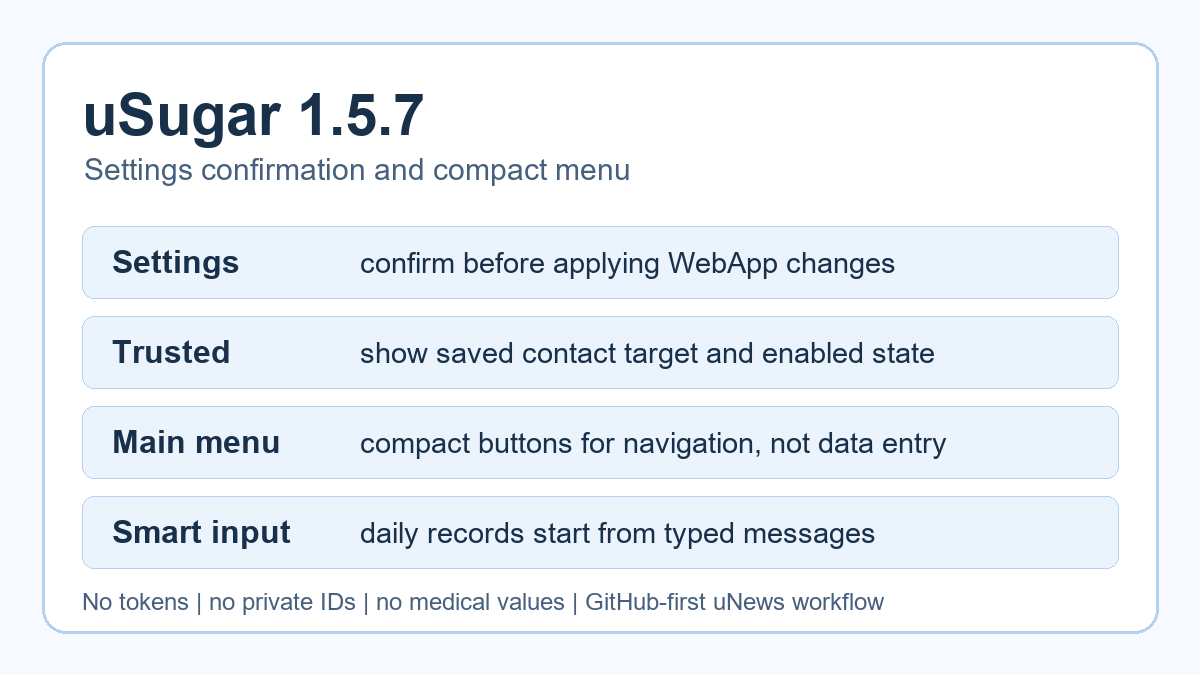
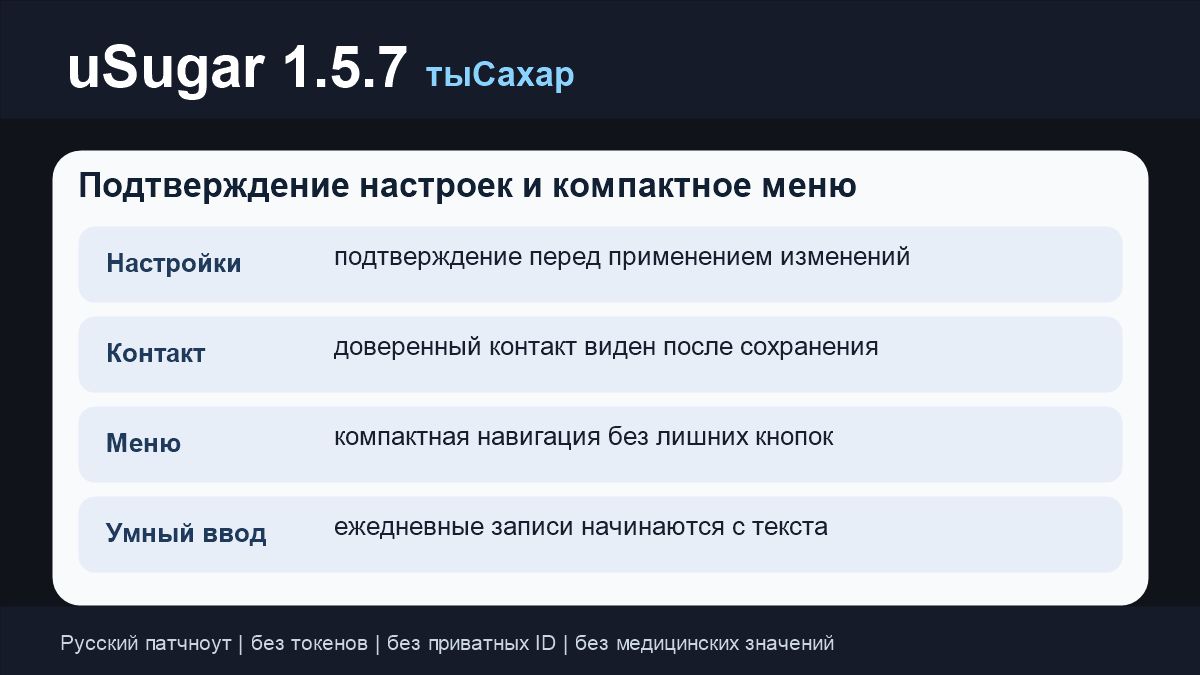
docs: repair usugar news captions and cards

diff --git a/news/2026-06-22-usugar-v1-5-7-settings-menu-ux.md b/news/2026-06-22-usugar-v1-5-7-settings-menu-ux.md
@@ -2,21 +2,22 @@
 type: feature
 project: uSugar
 series: usugar
-title: Settings confirmation and compact menu
+title: Подтверждение настроек и компактное меню
 version: 1.5.7
 repo_url: https://github.com/sunpole/uSugar
 image: 2026-06-22-usugar-v1-5-7-settings-menu-ux.png
+image_text: uSugar 1.5.7 настройки подтверждаются меню стало компактным умный ввод главный путь
 ---
 
 # uSugar 1.5.7
 
-UX update after live Settings WebApp testing.
+UX-обновление после живой проверки Settings WebApp.
 
-What changed:
-- Settings WebApp asks for confirmation before applying changes;
-- the Telegram reply clearly says that settings were applied and saved;
-- trusted contact target is shown after save together with enabled/disabled state;
-- the main keyboard is now compact and focused on navigation;
-- daily records are expected to start from smart text input instead of old Sugar/Food/Insulin buttons.
+Что изменилось:
+- Settings WebApp спрашивает подтверждение перед применением изменений;
+- ответ в Telegram явно сообщает, что настройки применены и сохранены;
+- доверенный контакт показывается после сохранения вместе с состоянием включено/выключено;
+- основная клавиатура стала компактной и сфокусированной на навигации;
+- ежедневные записи теперь ожидаются через умный текстовый ввод вместо старых кнопок Сахар/Еда/Укол.
 
-Food Log is still a separate upcoming feature. This release does not change OCR algorithms, medical formulas, database schema, tokens, or production deployment.
+Food Log остаётся отдельной будущей задачей. Этот релиз не меняет OCR-алгоритмы, медицинские формулы, схему базы данных, токены или production-развёртывание.

diff --git a/news/2026-06-22-usugar-v1-5-6-runtime-hotfix.md b/news/2026-06-22-usugar-v1-5-6-runtime-hotfix.md
@@ -2,20 +2,21 @@
 type: bugfix
 project: uSugar
 series: usugar
-title: Runtime hotfix for bot startup
+title: Исправление запуска бота
 version: 1.5.6
 repo_url: https://github.com/sunpole/uSugar
 image: 2026-06-22-usugar-v1-5-6-runtime-hotfix.png
+image_text: uSugar 1.5.6 запуск бота восстановлен настройки и OCR не менялись
 ---
 
 # uSugar 1.5.6
 
-Bugfix release after the OCR mode and smart text input update.
+Патч исправления после обновления OCR-режимов и умного текстового ввода.
 
-What changed:
-- fixed a startup crash in the insulin text fallback on the current Windows Python runtime;
-- replaced a too-new type hint with a compatible `Optional[str]`;
-- confirmed the bot can start again with the current Windows virtual environment;
-- kept OCR, formulas, database schema, tokens, and production settings unchanged.
+Что изменилось:
+- исправлен сбой запуска в текстовом fallback для уколов на текущем Windows runtime;
+- заменена несовместимая подсказка типа на безопасный вариант для текущего окружения;
+- подтверждено, что бот снова запускается в рабочем виртуальном окружении;
+- OCR, формулы, схема базы данных, токены и production-настройки не менялись.
 
-This patch is intentionally small: it only restores runtime compatibility and keeps the 1.5.5 UX work intact.
+Этот патч намеренно маленький: он возвращает совместимость запуска и сохраняет UX-работу версии 1.5.5.

diff --git a/news/2026-06-22-usugar-v1-5-5-ocr-mode-smart-text.md b/news/2026-06-22-usugar-v1-5-5-ocr-mode-smart-text.md
@@ -6,11 +6,12 @@ title: OCR-режимы и умный текстовый ввод
 version: 1.5.5
 repo_url: https://github.com/sunpole/uSugar
 image: 2026-06-22-usugar-v1-5-5-ocr-mode-smart-text.png
+image_text: uSugar 1.5.5 OCR режимы умный текстовый ввод безопасность подтверждения
 ---
 
 # uSugar 1.5.5
 
-Обновление ежедневного Telegram UX: бот теперь умеет выбирать preferred OCR-режим и понимать короткие сообщения с числами и словами.
+Обновление ежедневного Telegram UX: бот теперь умеет выбирать предпочитаемый OCR-режим и понимать короткие сообщения с числами и словами.
 
 Что изменилось:
 - добавлены OCR-режимы `auto`, `libre2_old`, `libre2_new`, `glucometer`;